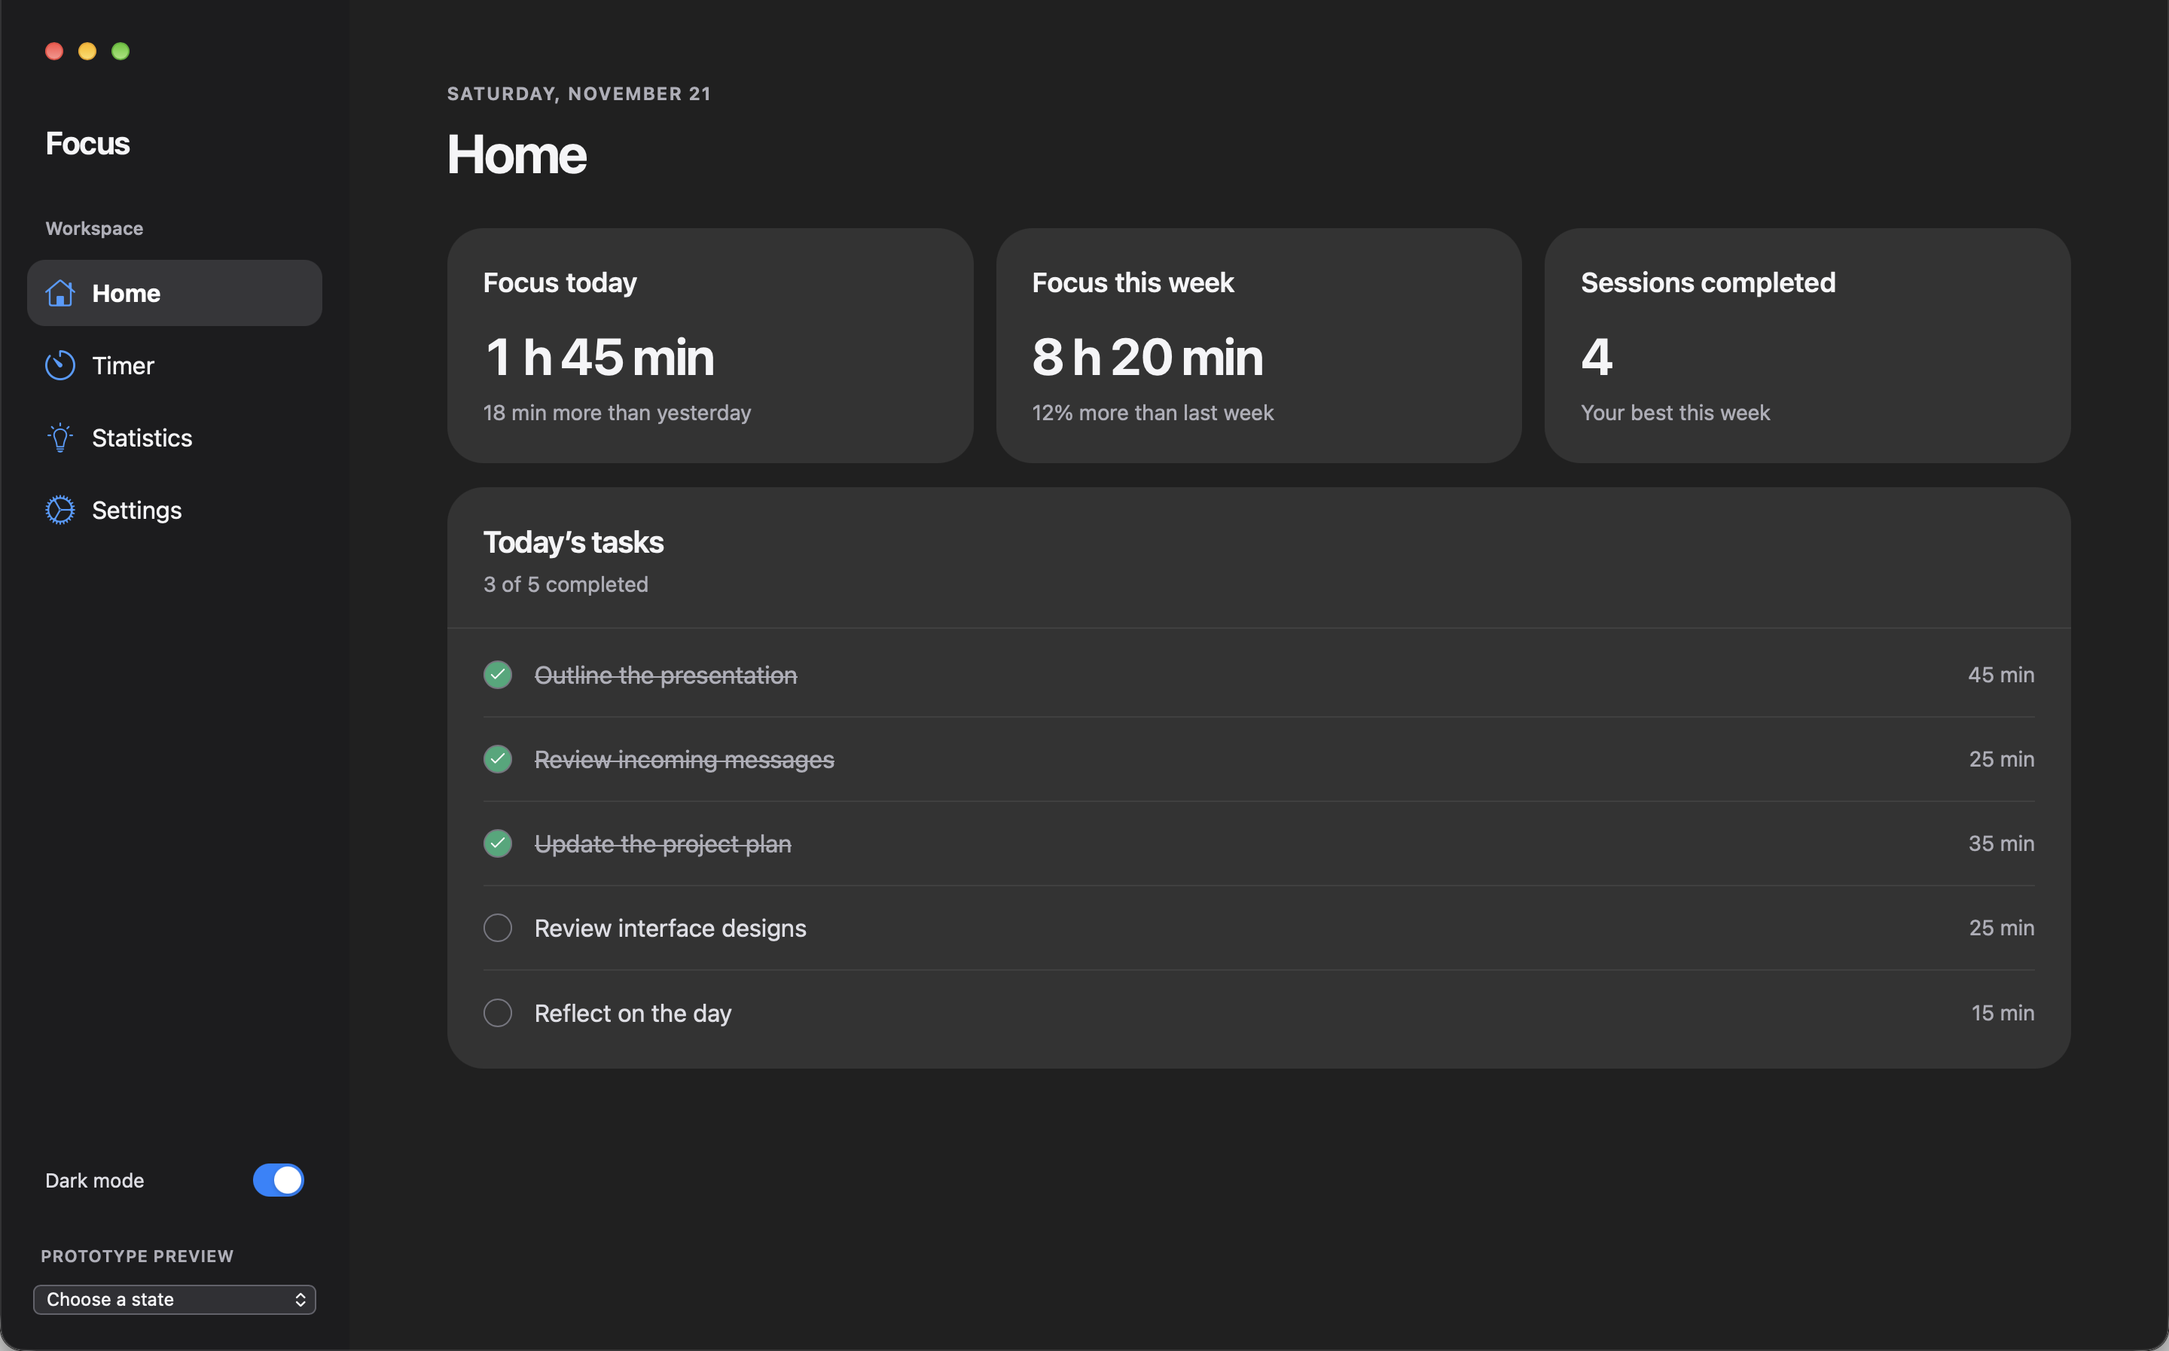
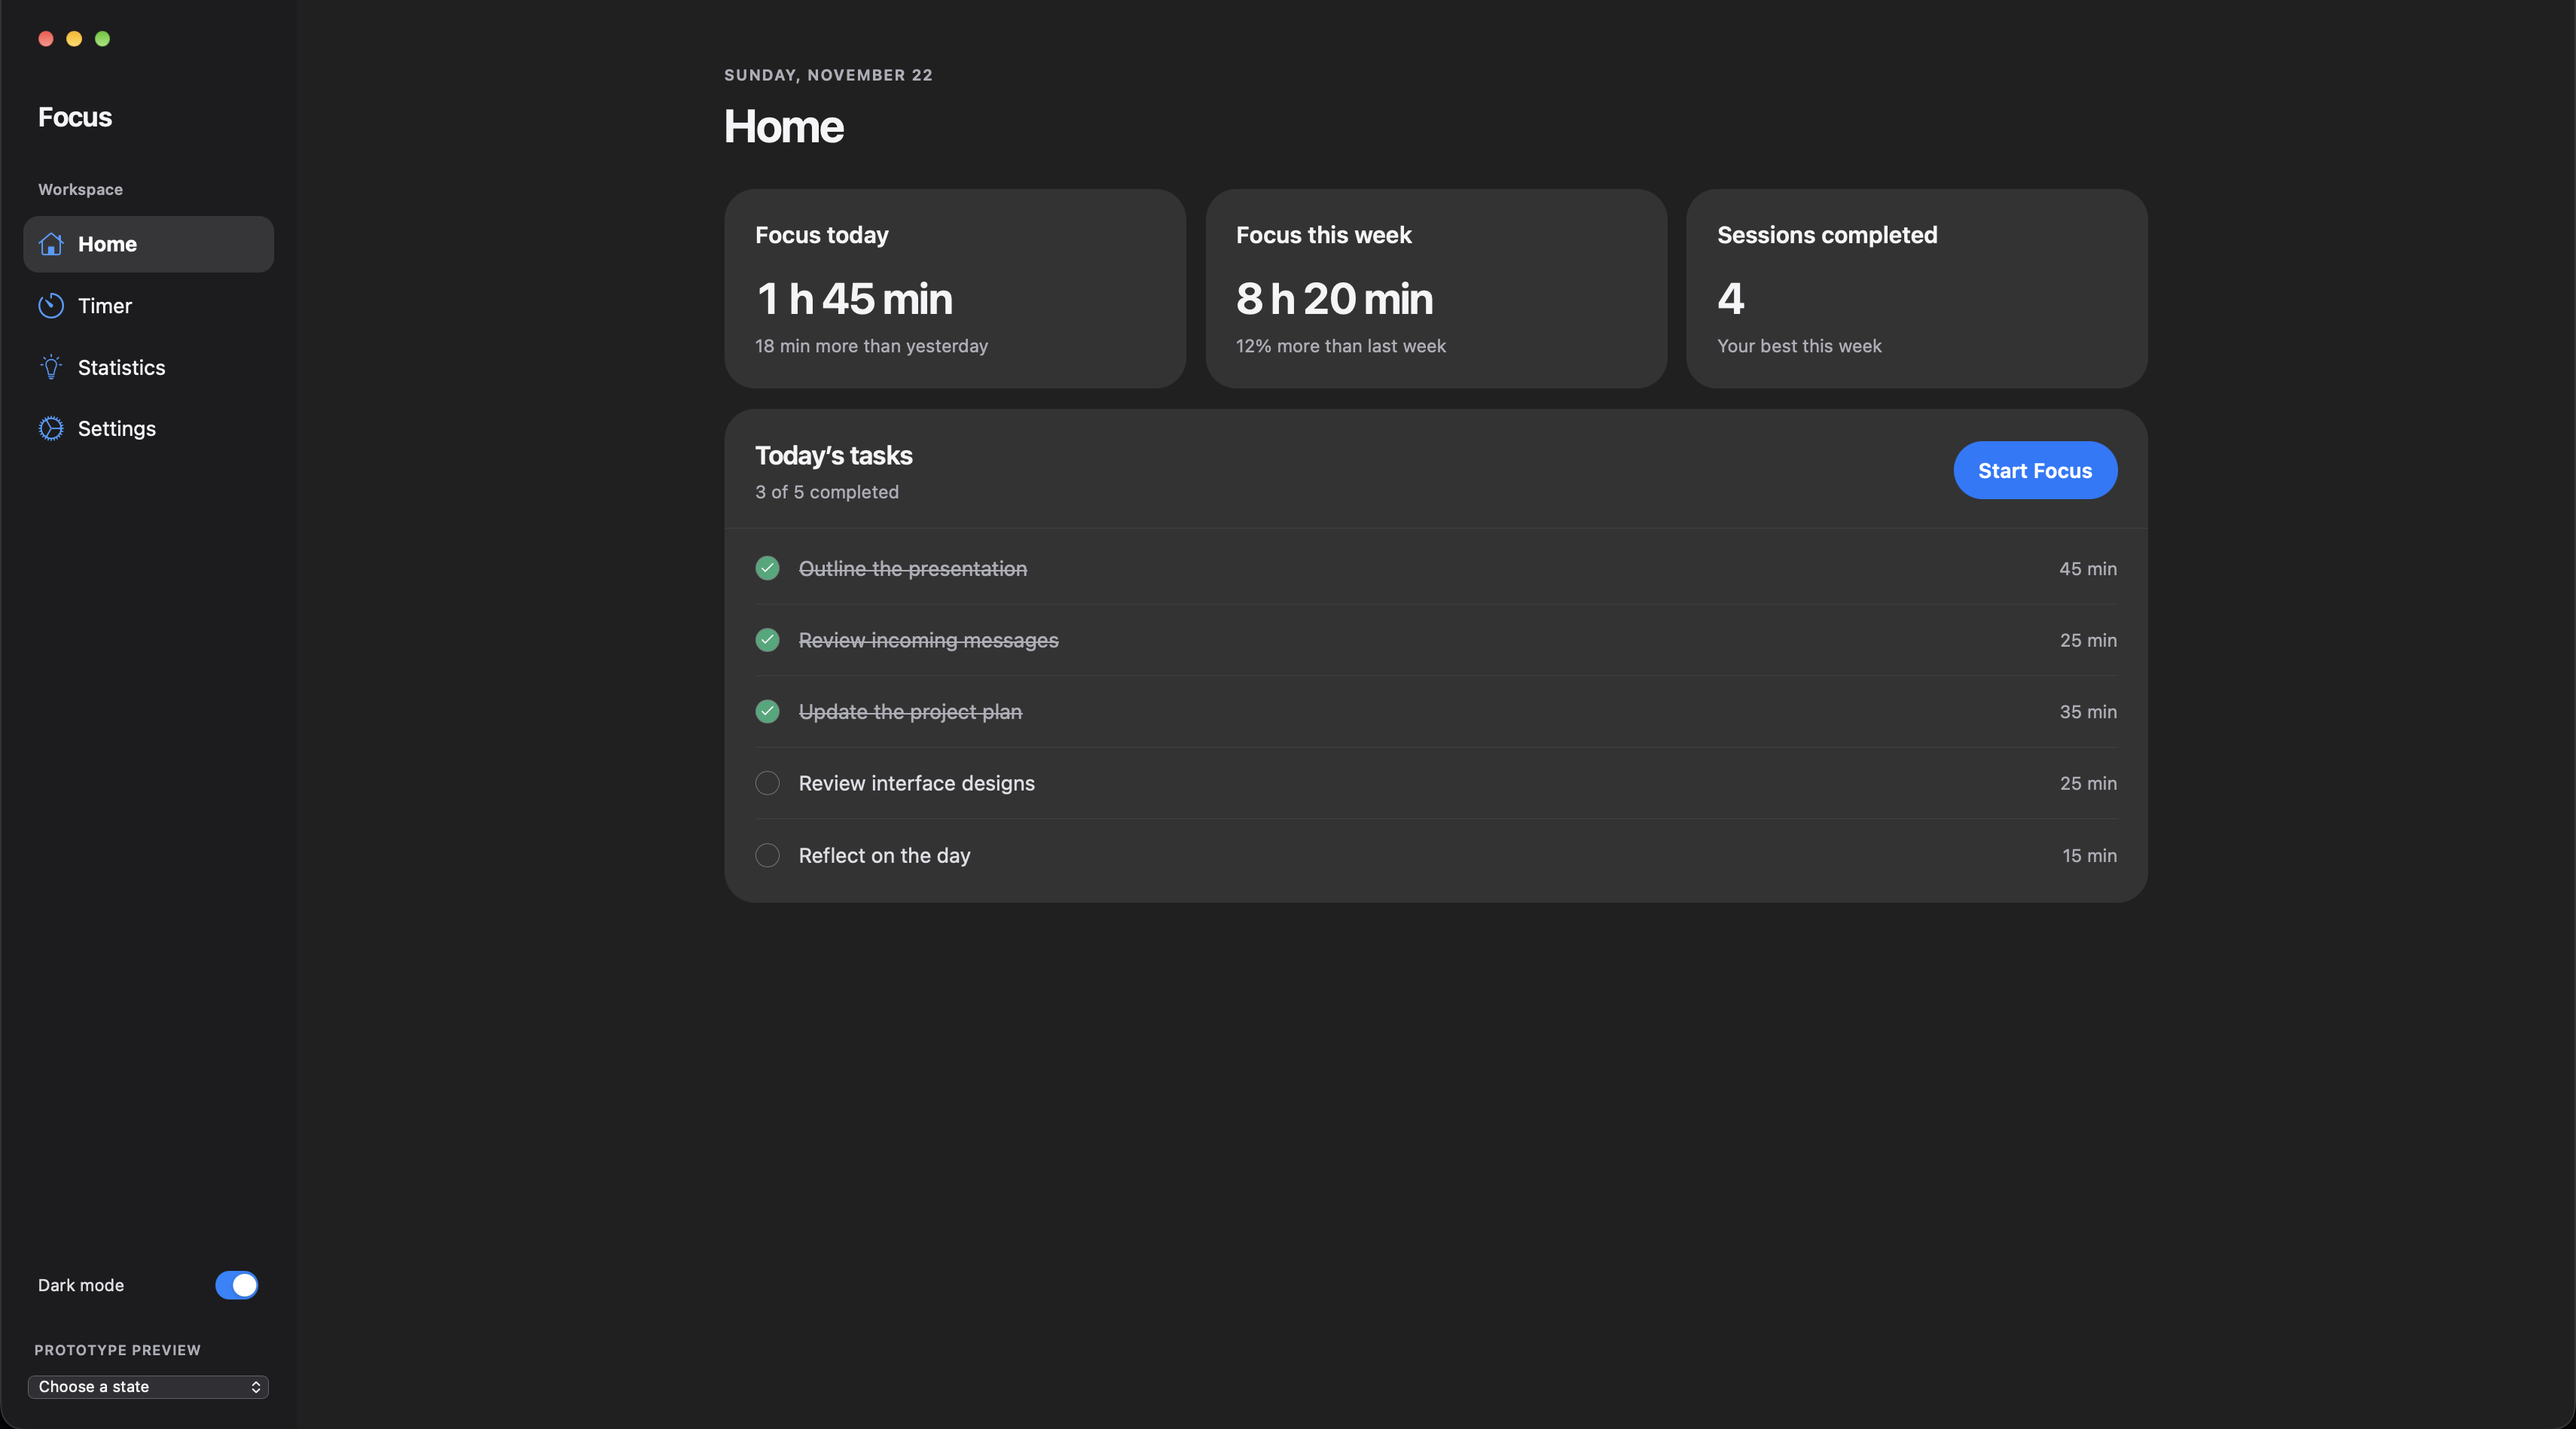
chore: save interface before design polish

diff --git a/src/styles/index.css b/src/styles/index.css
@@ -1417,6 +1417,12 @@ main {
 .focus-hero .button:not(:focus-visible) {
   box-shadow: none;
 }
+.page--home .tasks .button:not(:focus-visible) {
+  box-shadow: none;
+}
+.page--home .tasks .button {
+  font-size: 16px;
+}
 .metric-card p {
   padding-right: 0;
 }
@@ -1952,7 +1958,7 @@ main {
 .recent-timer__time {
   font-size: clamp(40px, 4.5vw, 60px);
   font-weight: 300;
-  letter-spacing: -0.04em;
+  letter-spacing: -0.03em;
   line-height: 1.1;
   font-variant-numeric: tabular-nums;
 }

diff --git a/src/pages/Home.tsx b/src/pages/Home.tsx
@@ -65,6 +65,7 @@ export default function Home({ empty, openTimer }: { empty: boolean; openTimer: 
                 <h2>Today’s tasks</h2>
                 <p>3 of 5 completed</p>
               </div>
+              <AppButton onClick={openTimer}>Start Focus</AppButton>
             </div>
             <div className="task-list">
               {[
